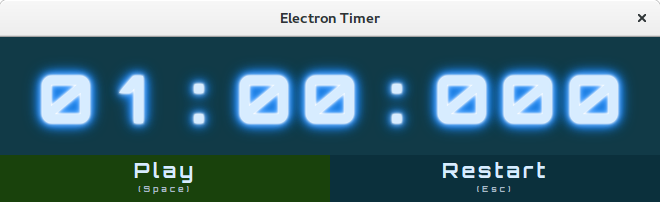
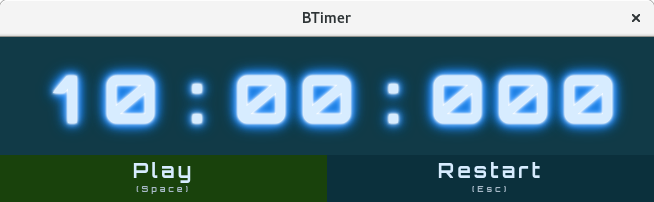
Update name to BTimer.

diff --git a/index.js b/index.js
@@ -18,7 +18,7 @@ function createWindow() {
   const mainWindowState = windowStateKeeper({
     defaultWidth: 660,
     defaultHeight: 165,
-    file: 'electron-timer-app-window-state.json',
+    file: 'btimer-window-state.json',
   });
 
   win = new BrowserWindow({
@@ -30,7 +30,7 @@ function createWindow() {
     backgroundColor: '#113A47',
     resizable: true,
     icon: path.join(__dirname, 'src/assets/icon-1024.png'),
-    title: 'Electron Timer',
+    title: 'BTimer',
   });
 
   win.loadURL(`file://${__dirname}/distweb/index.html`);

diff --git a/README.md b/README.md
@@ -1,11 +1,11 @@
-# :alarm_clock: Electron Timer App
+# :alarm_clock: BTimer
 
-This is a timer made with Electron.
+This is a timer made with Web Technologies to work with all plataforms: web, mobile and desktop with node electron.
 
 The Electron layer is used only to make it available as a Desktop application.  
 You can use it as your Pomodoro Timer. :tomato:  
 Ideal to be used in Dojos and Pair Programming. :shipit:   
-You also can learn about the tecnologies exploring the source code.
+You also can learn about the tecnologies exploring the source code. :books:
 
 ## Running
 
@@ -28,7 +28,7 @@ Report Issues and submit Pull Requests. Feel free to contribute with ideas to im
 
 ## Screenshot
 
-![Electron Timer Screenshot 1](./screenshot.png)
+![BTimer Screenshot 1](./screenshot.png)
 
-![Electron Timer Screenshot 2](./screenshot2.png)
+![BTimer Screenshot 2](./screenshot2.png)
 
